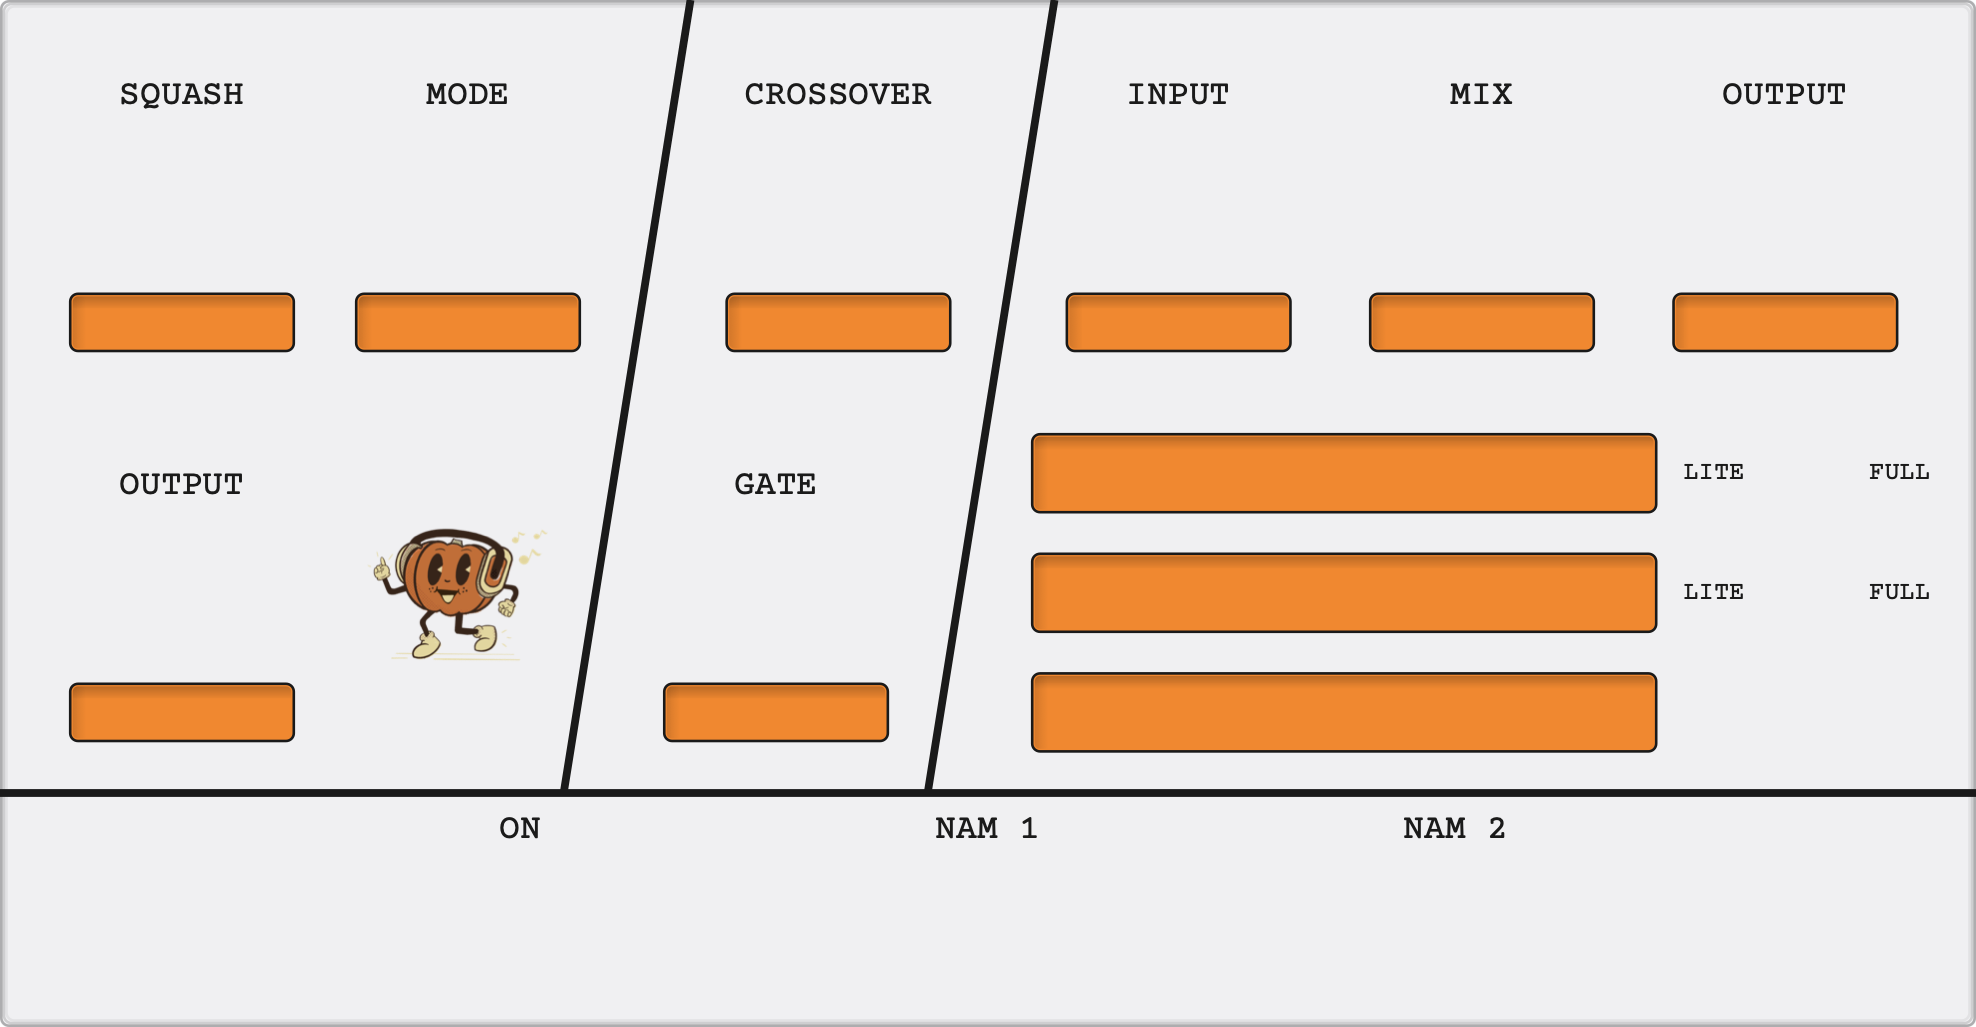
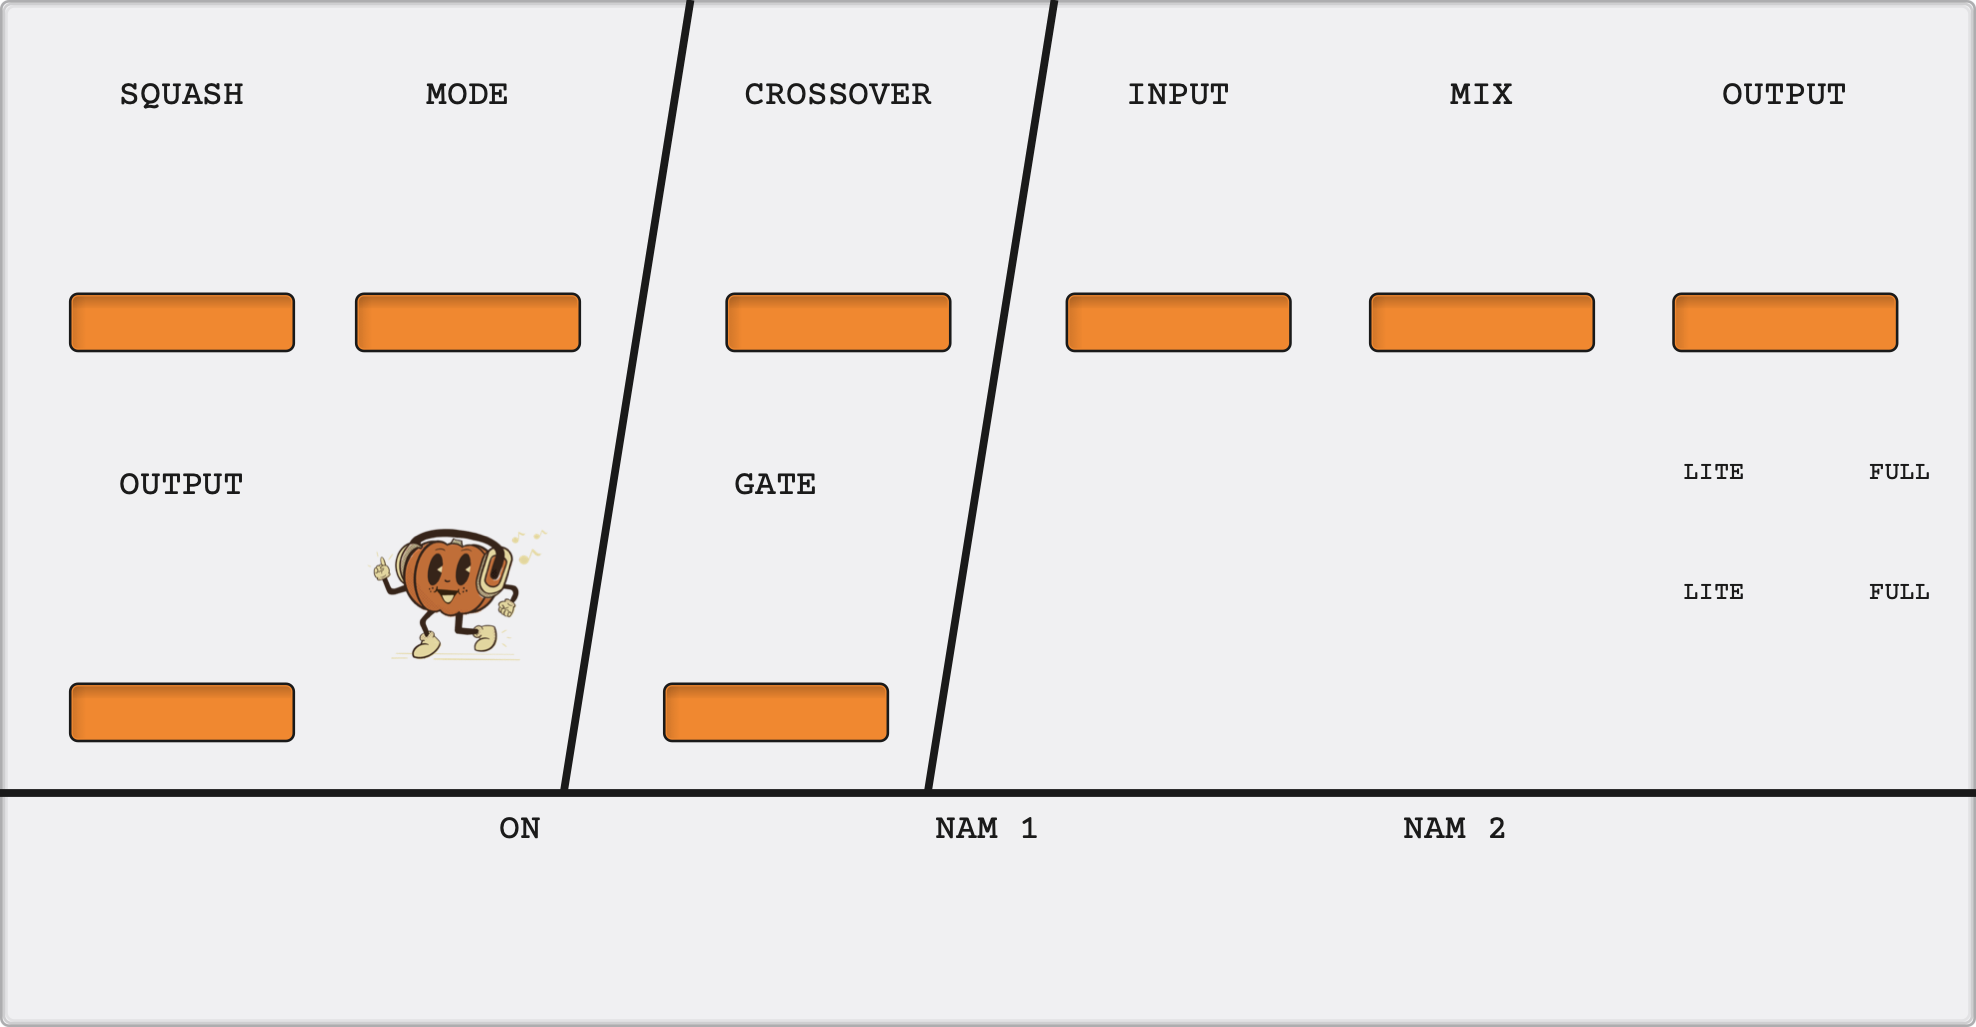
OctoBASS pedal: dim a NAM slot's LCD while the slot is off

Changed region(s): [[0.5248, 0.5297, 0.8644, 0.6232], [0.5248, 0.6543, 0.8644, 0.7478], [0.5248, 0.4051, 0.8644, 0.4985]]

diff --git a/plugins/octobass/lv2/bundle/modgui/script.js b/plugins/octobass/lv2/bundle/modgui/script.js
@@ -1,6 +1,17 @@
 function (event, funcs) {
     var qualityFullThreshold = 50;
 
+    var slotFileParameters = { nam1_on: 'nam1Model', nam2_on: 'nam2Model' };
+
+    var updateSlotLcd = function (symbol, value) {
+        var parameter = slotFileParameters[symbol];
+        if (parameter === undefined) {
+            return;
+        }
+        event.icon.find('.opc-file[mod-parameter-uri$="#' + parameter + '"]')
+            .toggleClass('opc-dim', value < 0.5);
+    };
+
     var updateQualityLever = function (symbol, value) {
         event.icon.find('[opc-quality-symbol="' + symbol + '"]')
             .toggleClass('opc-full', value >= qualityFullThreshold)
@@ -10,6 +21,7 @@ function (event, funcs) {
     if (event.type === 'start') {
         event.ports.forEach(function (port) {
             updateQualityLever(port.symbol, port.value);
+            updateSlotLcd(port.symbol, port.value);
         });
 
         event.icon.find('[opc-quality-symbol]').on('click', function (e) {
@@ -47,6 +59,7 @@ function (event, funcs) {
     }
 
     updateQualityLever(event.symbol, event.value);
+    updateSlotLcd(event.symbol, event.value);
 
     if (event.value < 0.5) {
         return;

diff --git a/plugins/octobass/lv2/bundle/modgui/stylesheet.css b/plugins/octobass/lv2/bundle/modgui/stylesheet.css
@@ -291,10 +291,18 @@
 .mod-pedal-octobass .opc-file {
     position: absolute;
     z-index: 30;
+    background-image: url(/resources/lcd.png{{{ns}}});
+    background-size: 624px 39px;
+    background-position: 0 0;
+    background-repeat: no-repeat;
     font-family: 'OPC LCD', monospace !important;
     font-size: 13px;
     color: #1c1c30;
     cursor: pointer;
+}
+
+.mod-pedal-octobass .opc-file.opc-dim {
+    background-position: -312px 0;
 }
 
 .mod-pedal-octobass .opc-file .mod-enumerated-selected {

diff --git a/plugins/octobass/lv2/tools/ModguiAssetRenderer.cpp b/plugins/octobass/lv2/tools/ModguiAssetRenderer.cpp
@@ -489,9 +489,6 @@ juce::Image renderBackground(OctoberLookAndFeel& lookAndFeel, const std::vector<
                LabelColour, juce::Justification::centredLeft);
   }
 
-  for (const auto& slot : fileSlots)
-    drawLCDBackground(g, {slot.lcdBox.x, slot.lcdBox.y, slot.lcdBox.w, slot.lcdBox.h});
-
   const auto logo =
       juce::ImageCache::getFromMemory(BinaryData::OctoberLogo_png, BinaryData::OctoberLogo_pngSize);
   if (logo.isValid())
@@ -500,6 +497,34 @@ juce::Image renderBackground(OctoberLookAndFeel& lookAndFeel, const std::vector<
         LogoHeight * static_cast<float>(logo.getWidth()) / static_cast<float>(logo.getHeight());
     g.drawImage(logo,
                 juce::Rectangle<float>(logoW, LogoHeight).withCentre({LogoCentreX, LogoCentreY}));
+  }
+  return image;
+}
+
+int fileLcdCssWidth()
+{
+  return juce::roundToInt(FileLcdWidth * DisplayScale);
+}
+
+int fileLcdCssHeight()
+{
+  return juce::roundToInt(LcdHeight * DisplayScale);
+}
+
+juce::Image renderFileLcdSprite()
+{
+  const float framePixelWidth = static_cast<float>(fileLcdCssWidth()) * RenderScale;
+  const float framePixelHeight = static_cast<float>(fileLcdCssHeight()) * RenderScale;
+  juce::Image image(juce::Image::ARGB, juce::roundToInt(framePixelWidth) * 2,
+                    juce::roundToInt(framePixelHeight), true);
+  const std::array<juce::Colour, 2> backlights = {kLCDBacklightColour, kLCDDimBacklightColour};
+  for (size_t frame = 0; frame < backlights.size(); ++frame)
+  {
+    juce::Graphics g(image);
+    g.addTransform(
+        juce::AffineTransform::scale(framePixelWidth / FileLcdWidth, framePixelHeight / LcdHeight)
+            .translated(static_cast<float>(frame) * framePixelWidth, 0.0f));
+    drawLCDBackground(g, {0.0f, 0.0f, FileLcdWidth, LcdHeight}, backlights[frame]);
   }
   return image;
 }
@@ -531,6 +556,8 @@ juce::Image renderScreenshot(OctoberLookAndFeel& lookAndFeel, const juce::Image&
     }
 
   const juce::Font fileFont(juce::FontOptions(lookAndFeel.getLCDTypeface()).withHeight(10.0f));
+  for (const auto& slot : fileSlots)
+    drawLCDBackground(g, {slot.lcdBox.x, slot.lcdBox.y, slot.lcdBox.w, slot.lcdBox.h});
   for (const auto& slot : fileSlots)
     drawText(g, FilePlaceholder,
              {slot.lcdBox.x + 8.0f, slot.lcdBox.y, slot.lcdBox.w - 16.0f, slot.lcdBox.h}, fileFont,
@@ -633,10 +660,15 @@ std::string generateStylesheet(const std::vector<Control>& controls,
 
   css += pedal +
          " .opc-file {\n    position: absolute;\n    z-index: 30;\n"
+         "    background-image: url(/resources/lcd.png{{{ns}}});\n    background-size: " +
+         std::to_string(fileLcdCssWidth() * 2) + "px " + std::to_string(fileLcdCssHeight()) +
+         "px;\n    background-position: 0 0;\n    background-repeat: no-repeat;\n"
          "    font-family: 'OPC LCD', monospace !important;\n    font-size: " +
          px(10.0f) +
          ";\n    color: #1c1c30;\n"
          "    cursor: pointer;\n}\n\n";
+  css += pedal + " .opc-file.opc-dim {\n    background-position: -" +
+         std::to_string(fileLcdCssWidth()) + "px 0;\n}\n\n";
   css += pedal +
          " .opc-file .mod-enumerated-selected {\n    font-family: 'OPC LCD', monospace "
          "!important;\n    padding: 0 " +
@@ -806,6 +838,7 @@ int main(int argc, char** argv)
 
   const auto background = renderBackground(lookAndFeel, controls, fileSlots);
   ok &= writePng(background, outputDirectory.getChildFile("background.png"));
+  ok &= writePng(renderFileLcdSprite(), outputDirectory.getChildFile("lcd.png"));
 
   const auto screenshot = renderScreenshot(lookAndFeel, background, controls, fileSlots);
   ok &= writePng(screenshot.rescaled(juce::roundToInt(PedalWidth * DisplayScale),

diff --git a/scripts/mod-sim/ui_check.py b/scripts/mod-sim/ui_check.py
@@ -192,14 +192,25 @@ def check_power_row(page: Page):
     lefts = [left for left, _, _ in positions]
     check("power row order is bypass, NAM 1, NAM 2", lefts == sorted(lefts), str(lefts))
 
+    lcd_parameter = {"nam1": "nam1Model", "nam2": "nam2Model"}
+    other = {"nam1": "nam2", "nam2": "nam1"}
+
+    def lcd_dimmed(slot):
+        return "opc-dim" in classes(file_picker(page, lcd_parameter[slot]))
+
     for slot in ["nam1", "nam2"]:
+        check(f"{slot} LCD is lit while the slot is on", not lcd_dimmed(slot))
         lever = widget(page, f"{slot}-on")
         lever.click()
         page.wait_for_timeout(400)
         check(f"{slot} power lever switches off", "off" in classes(lever), " ".join(classes(lever)))
+        check(f"{slot} LCD dims when the slot is off", lcd_dimmed(slot))
+        check(f"{other[slot]} LCD stays lit", not lcd_dimmed(other[slot]))
+        check("IR LCD never dims", "opc-dim" not in classes(file_picker(page, "cabinetIr")))
         lever.click()
         page.wait_for_timeout(400)
         check(f"{slot} power lever switches on", "on" in classes(lever), " ".join(classes(lever)))
+        check(f"{slot} LCD lights again when the slot is on", not lcd_dimmed(slot))
 
 
 def check_pedal_size(page: Page):

diff --git a/plugins/octobass/lv2/README.md b/plugins/octobass/lv2/README.md
@@ -28,7 +28,7 @@ Native LV2 wrapper around `octobass-core` for MOD Audio devices (Dwarf, Duo X) a
 - Percent ports use 0-100; the core receives 0-1.
 - File loads, clears and NAM quality changes run on the LV2 worker thread; `run()` does not allocate.
 - The pedal has no Solo buttons; the Solo ports are in MOD's settings panel. Both Solo ports on: the most recently engaged solo wins, and the modgui clears the other Solo port.
-- The footer has three footswitches with status LEDs: ON (plugin on/bypass), NAM 1 and NAM 2 (slot on/off). A lit LED means the plugin or slot is on.
+- The footer has three footswitches with status LEDs: ON (plugin on/bypass), NAM 1 and NAM 2 (slot on/off). A lit LED means the plugin or slot is on. A NAM slot that is off dims its LCD backlight, as in the JUCE plugin.
 - Each NAM slot has a LITE/FULL lever to the right of its LCD. It shows FULL at quality >= 50% and sets quality to 0% or 100% when clicked.
 - Saved state stores file paths through `state:mapPath`.
 - LV2 versions have no major field, and hosts treat an odd minor or micro version as a development build (mod-ui labels it Testing). The encoding keeps every release even and increasing. MINOR must stay below 100.
